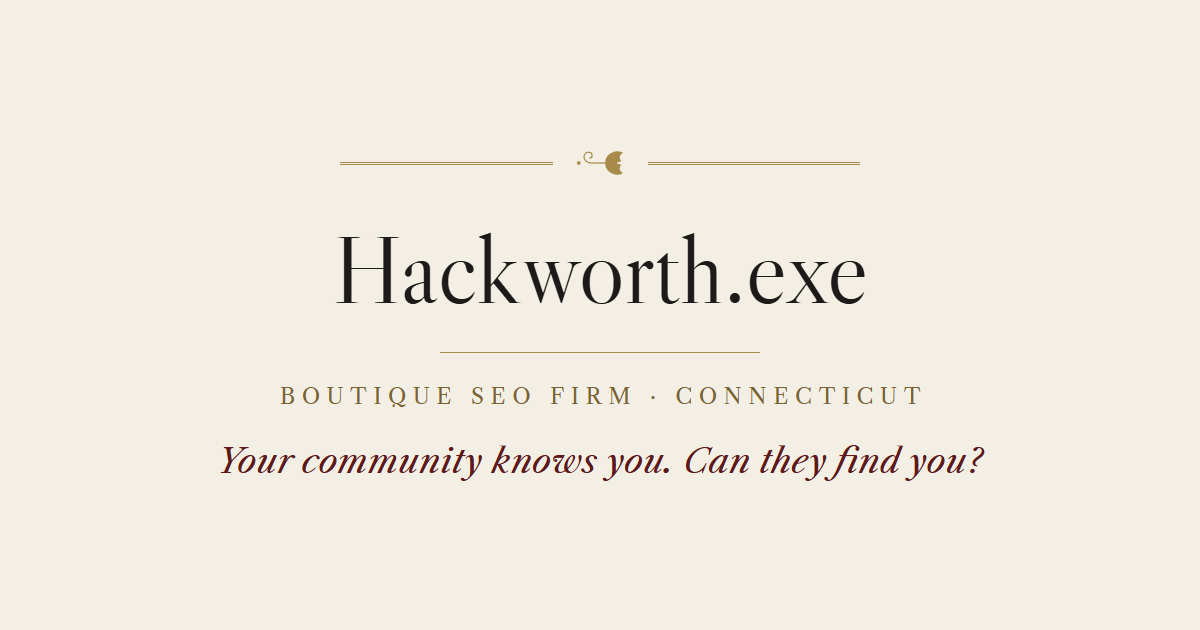
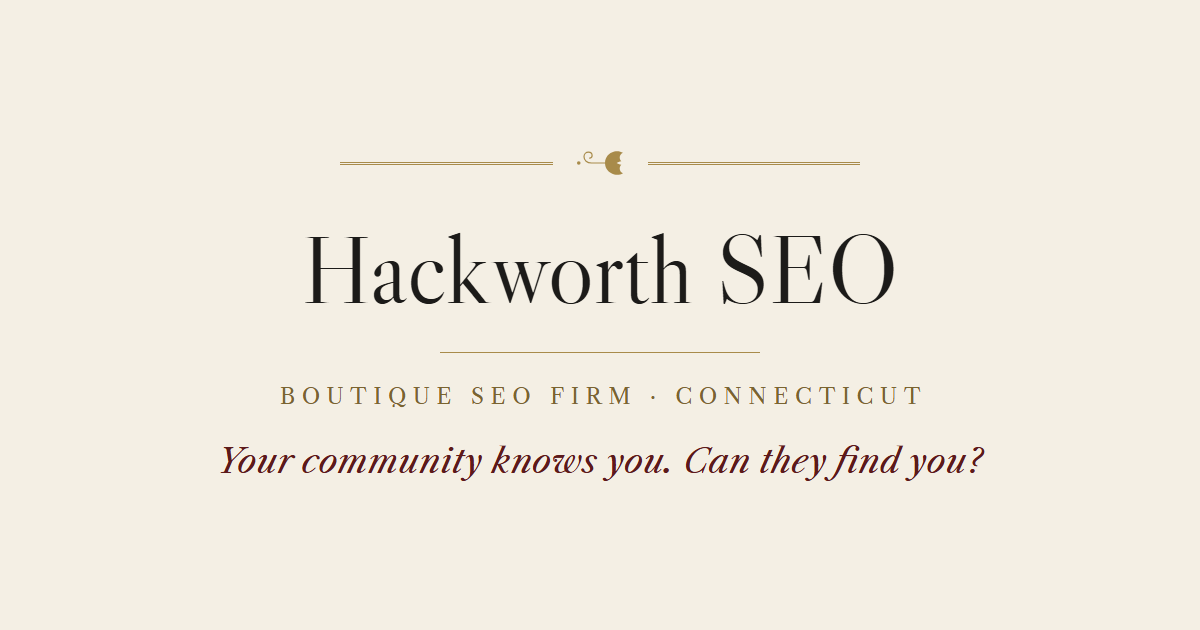
Rebrand site name to Hackworth SEO
Wordmark, titles, footer, OG/Twitter metadata, image alt text and the
OG image now read "Hackworth SEO". The legal name Hackworth.exe, LLC
stays in the copyright line and as legalName in the JSON-LD. OG image
URL versioned (?v=2) so social sites refetch it.

Changed region(s): [[0.2467, 0.3619, 0.7708, 0.4825]]

diff --git a/index.html b/index.html
@@ -3,15 +3,15 @@
 <head>
 <meta charset="utf-8">
 <meta name="viewport" content="width=device-width, initial-scale=1">
-<title>Hackworth.exe · Boutique SEO Firm in Connecticut</title>
-<meta name="description" content="Hackworth.exe is a boutique SEO firm for medical practices, law firms and defense contractors. Security-conscious local search, analytics and Google Business Profile management, priced for locals rather than corporations.">
+<title>Hackworth SEO · Boutique SEO Firm in Connecticut</title>
+<meta name="description" content="Hackworth SEO is a boutique SEO firm for medical practices, law firms and defense contractors. Security-conscious local search, analytics and Google Business Profile management, priced for locals rather than corporations.">
 <link rel="canonical" href="https://hackworthseo.com/">
 <meta property="og:type" content="website">
-<meta property="og:title" content="Hackworth.exe · Boutique SEO Firm">
+<meta property="og:title" content="Hackworth SEO · Boutique SEO Firm">
 <meta property="og:description" content="Your community knows you. Can they find you? Security-conscious search and local online presence for businesses that trade on reputation.">
 <meta property="og:url" content="https://hackworthseo.com/">
-<meta property="og:site_name" content="Hackworth.exe">
-<meta property="og:image" content="https://hackworthseo.com/assets/img/og-image.png">
+<meta property="og:site_name" content="Hackworth SEO">
+<meta property="og:image" content="https://hackworthseo.com/assets/img/og-image.png?v=2">
 <meta property="og:image:width" content="1200">
 <meta property="og:image:height" content="630">
 <meta name="twitter:card" content="summary_large_image">
@@ -25,8 +25,9 @@
 {
   "@context": "https://schema.org",
   "@type": "ProfessionalService",
-  "name": "Hackworth.exe, LLC",
-  "alternateName": "Hackworth.exe",
+  "name": "Hackworth SEO",
+  "legalName": "Hackworth.exe, LLC",
+  "alternateName": "HackworthSEO",
   "url": "https://hackworthseo.com/",
   "description": "Boutique SEO firm providing local search, analytics and Google Business Profile management for medical practices, law firms and defense contractors.",
   "areaServed": { "@type": "State", "name": "Connecticut" },
@@ -58,8 +59,8 @@
 
 <header class="masthead">
   <div class="wrap">
-    <a class="wordmark" href="#top" aria-label="Hackworth.exe, home">
-      <span class="name">Hackworth.exe</span>
+    <a class="wordmark" href="#top" aria-label="Hackworth SEO, home">
+      <span class="name">Hackworth SEO</span>
       <span class="sub">Boutique SEO Firm</span>
     </a>
     <button class="menu-toggle" type="button" aria-expanded="false" aria-controls="primary-nav">Menu</button>
@@ -283,7 +284,7 @@
       </header>
       <div class="principals">
         <div class="person reveal">
-          <div class="monogram portrait"><img src="/assets/img/daniel-hackworth-320.webp" srcset="/assets/img/daniel-hackworth-320.webp 320w, /assets/img/daniel-hackworth-480.webp 480w" sizes="160px" width="160" height="160" alt="Daniel Hackworth, Founder and Lead Engineer of Hackworth.exe" loading="lazy" decoding="async"></div>
+          <div class="monogram portrait"><img src="/assets/img/daniel-hackworth-320.webp" srcset="/assets/img/daniel-hackworth-320.webp 320w, /assets/img/daniel-hackworth-480.webp 480w" sizes="160px" width="160" height="160" alt="Daniel Hackworth, Founder and Lead Engineer of Hackworth SEO" loading="lazy" decoding="async"></div>
           <div>
             <h3>Daniel Hackworth</h3>
             <p class="label title">Founder &amp; Lead Engineer</p>
@@ -291,7 +292,7 @@
           </div>
         </div>
         <div class="person reveal">
-          <div class="monogram portrait"><img src="/assets/img/ryan-murzyn-320.webp" srcset="/assets/img/ryan-murzyn-320.webp 320w, /assets/img/ryan-murzyn-480.webp 480w" sizes="160px" width="160" height="160" alt="Ryan Murzyn, Executive Associate and Administrator of Hackworth.exe" loading="lazy" decoding="async"></div>
+          <div class="monogram portrait"><img src="/assets/img/ryan-murzyn-320.webp" srcset="/assets/img/ryan-murzyn-320.webp 320w, /assets/img/ryan-murzyn-480.webp 480w" sizes="160px" width="160" height="160" alt="Ryan Murzyn, Executive Associate and Administrator of Hackworth SEO" loading="lazy" decoding="async"></div>
           <div>
             <h3>Ryan Murzyn</h3>
             <p class="label title">Executive Associate &amp; Administrator</p>
@@ -352,7 +353,7 @@
 <footer>
   <div class="wrap">
     <div class="ornament" aria-hidden="true"><svg><use href="#fleuron"/></svg></div>
-    <p class="name">Hackworth.exe</p>
+    <p class="name">Hackworth SEO</p>
     <p class="sub">Boutique SEO Firm &nbsp;·&nbsp; Connecticut</p>
     <p class="tag">Your community knows you. Can they find you?</p>
     <nav aria-label="Footer">

diff --git a/thank-you/index.html b/thank-you/index.html
@@ -3,8 +3,8 @@
 <head>
 <meta charset="utf-8">
 <meta name="viewport" content="width=device-width, initial-scale=1">
-<title>Thank you · Hackworth.exe</title>
-<meta name="description" content="Your inquiry has been received by Hackworth.exe.">
+<title>Thank you · Hackworth SEO</title>
+<meta name="description" content="Your inquiry has been received by Hackworth SEO.">
 <meta name="robots" content="noindex">
 <meta name="theme-color" content="#5C1A1B">
 <link rel="icon" type="image/svg+xml" href="/assets/img/favicon.svg">
@@ -25,8 +25,8 @@
 
 <header class="masthead">
   <div class="wrap">
-    <a class="wordmark" href="/" aria-label="Hackworth.exe, home">
-      <span class="name">Hackworth.exe</span>
+    <a class="wordmark" href="/" aria-label="Hackworth SEO, home">
+      <span class="name">Hackworth SEO</span>
       <span class="sub">Boutique SEO Firm</span>
     </a>
     <button class="menu-toggle" type="button" aria-expanded="false" aria-controls="primary-nav">Menu</button>
@@ -58,7 +58,7 @@
 <footer>
   <div class="wrap">
     <div class="ornament" aria-hidden="true"><svg><use href="#fleuron"/></svg></div>
-    <p class="name">Hackworth.exe</p>
+    <p class="name">Hackworth SEO</p>
     <p class="sub">Boutique SEO Firm &nbsp;·&nbsp; Connecticut</p>
     <p class="tag">Your community knows you. Can they find you?</p>
     <nav aria-label="Footer">

diff --git a/404.html b/404.html
@@ -3,7 +3,7 @@
 <head>
 <meta charset="utf-8">
 <meta name="viewport" content="width=device-width, initial-scale=1">
-<title>Page not found · Hackworth.exe</title>
+<title>Page not found · Hackworth SEO</title>
 <meta name="description" content="This page could not be found on hackworthseo.com.">
 <meta name="robots" content="noindex">
 <meta name="theme-color" content="#5C1A1B">
@@ -25,8 +25,8 @@
 
 <header class="masthead">
   <div class="wrap">
-    <a class="wordmark" href="/" aria-label="Hackworth.exe, home">
-      <span class="name">Hackworth.exe</span>
+    <a class="wordmark" href="/" aria-label="Hackworth SEO, home">
+      <span class="name">Hackworth SEO</span>
       <span class="sub">Boutique SEO Firm</span>
     </a>
     <button class="menu-toggle" type="button" aria-expanded="false" aria-controls="primary-nav">Menu</button>
@@ -58,7 +58,7 @@
 <footer>
   <div class="wrap">
     <div class="ornament" aria-hidden="true"><svg><use href="#fleuron"/></svg></div>
-    <p class="name">Hackworth.exe</p>
+    <p class="name">Hackworth SEO</p>
     <p class="sub">Boutique SEO Firm &nbsp;·&nbsp; Connecticut</p>
     <p class="tag">Your community knows you. Can they find you?</p>
     <nav aria-label="Footer">
